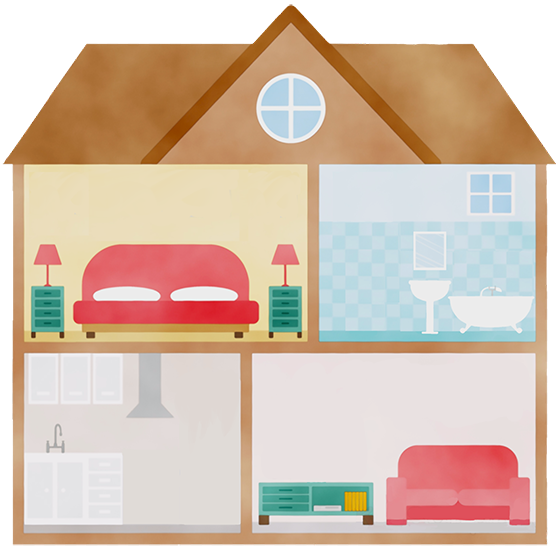
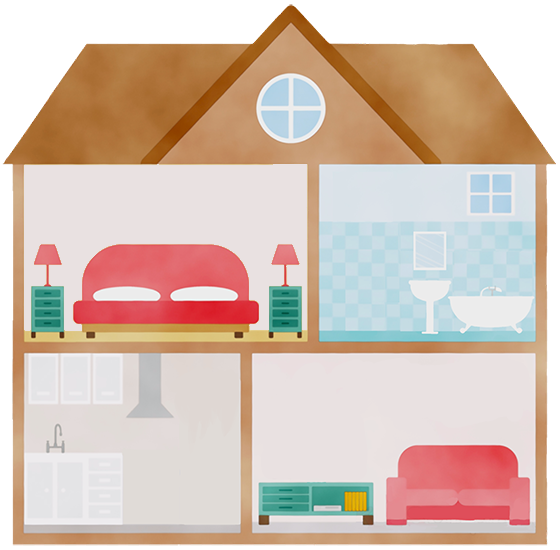
Bedroom changes
Changed bedroom wall color; Added an "Off" AC. When toggled, only has the air thingys when "on" and doesn't when "off"

Changed region(s): [[0.0304, 0.2782, 0.5464, 0.6182]]

diff --git a/src/app/house/house.component.html b/src/app/house/house.component.html
@@ -21,7 +21,8 @@
             </div>
             <div class="house-appliance-wrapper">
                 <img src="assets/images/house/ac_glow.png" alt="Glowing AC" id="ac" class="house-appliance glow">
-                <img src="assets/images/house/ac.png" alt="AC" class="house-appliance" id="ac" (click)="toggleGlow($event)">
+                <img *ngIf="isACOn" src="assets/images/house/ac.png" alt="AC On" id="ac" class="house-appliance" (click)="toggleGlow($event)">
+                <img *ngIf="!isACOn" src="assets/images/house/ac_off.png" alt="AC Off" class="house-appliance" id="ac" (click)="toggleGlow($event)">
             </div>
             <div class="house-appliance-wrapper">
                 <img src="assets/images/house/oven_glow.png" alt="Glowing Oven" id="oven" class="house-appliance glow">

diff --git a/src/app/house/house.component.ts b/src/app/house/house.component.ts
@@ -1,4 +1,5 @@
 import { Component } from '@angular/core';
+import { createInvalidObservableTypeError } from 'rxjs/internal/util/throwUnobservableError';
 
 
 @Component({
@@ -7,11 +8,17 @@ import { Component } from '@angular/core';
   styleUrl: './house.component.scss',
 })
 export class HouseComponent {
+  isACOn: boolean = false;
+
   toggleGlow(e: any) {
     const element = e.target;
     const glowElement = e.target.previousElementSibling;
 
     element.classList.toggle('active');
     glowElement.classList.toggle('active');
+    this.isACOn = !this.isACOn;
+
+    console.log("ele", element, "glow", glowElement)
+
   }
 }
